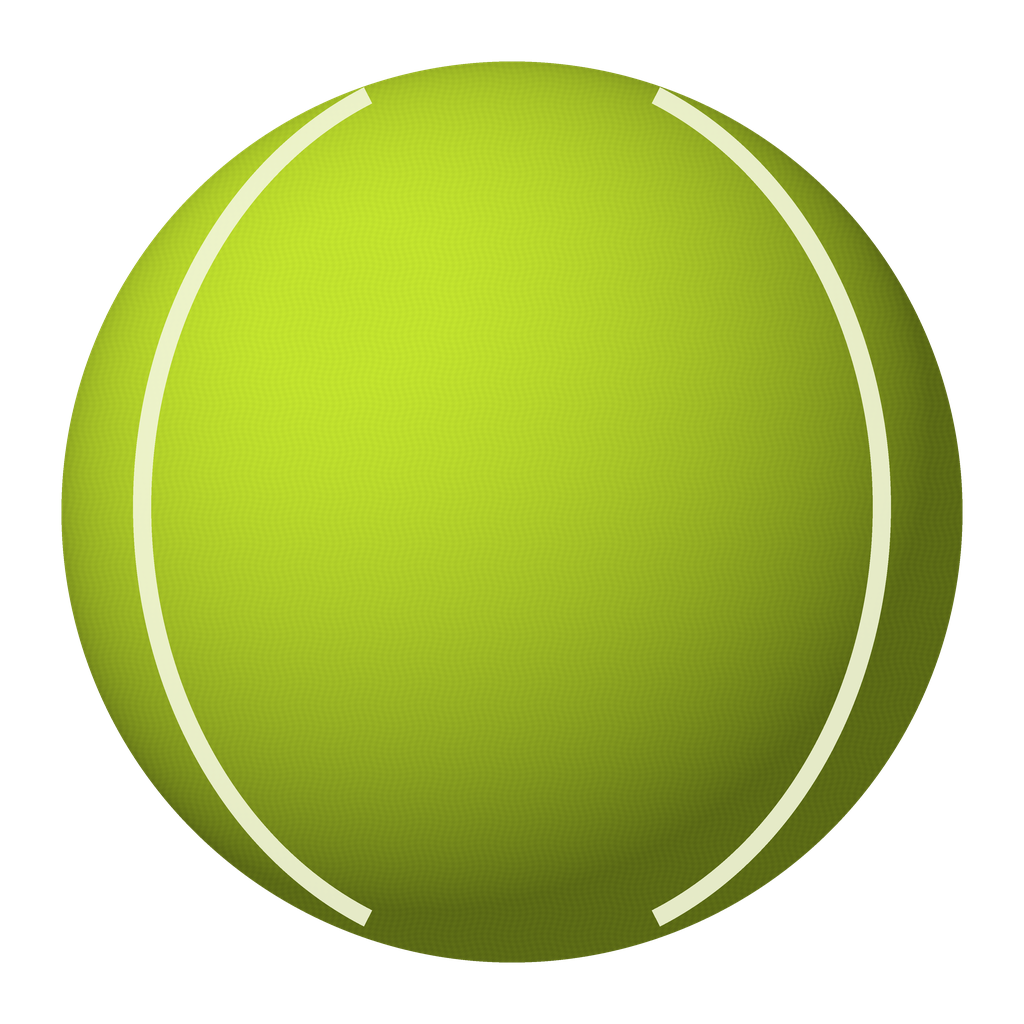
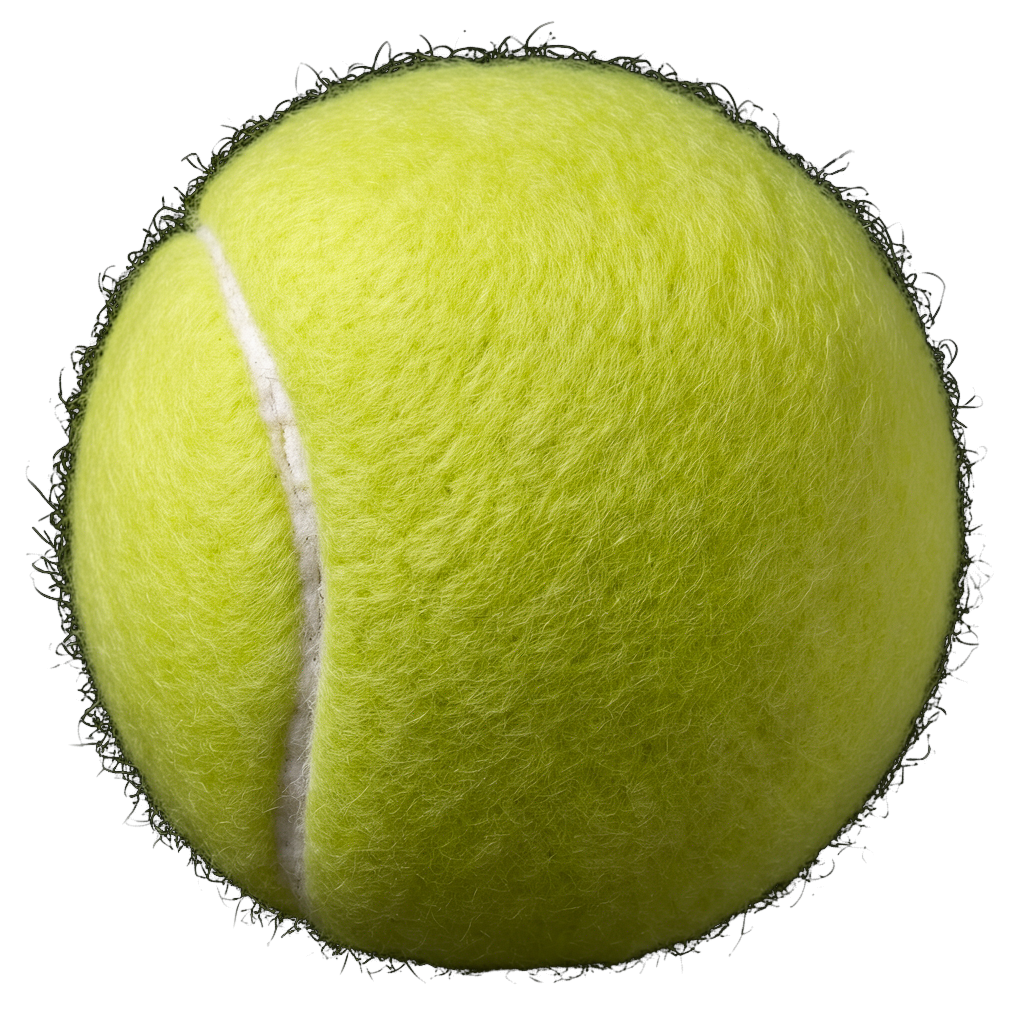
fix: replace synthetic tennis ball with photoreal felt source

diff --git a/scripts/generate_tennis_ball_assets.py b/scripts/generate_tennis_ball_assets.py
@@ -1,9 +1,10 @@
 #!/usr/bin/env python3
-"""Deterministically author native 8K tennis-ball PBR masters and web sprites.
+"""Author archived procedural PBR masters and approved photoreal web sprites.
 
-The master follows the Temple Guard exact-grid method: 16 independently
-rendered 2048 px tiles, stitched as a lossless, non-overlapping 4 x 4 atlas.
-No neural upscaling or resampling is used to create the 8192 px masters.
+The 8192 px PBR maps preserve the earlier exact-grid experiment, but they are
+not the visible identity source. Runtime sprites derive from the reviewed local
+FLUX.2 Klein plate in ``assets/tennis-ball/source``; no native-8K claim is made
+for that plate.
 """
 from __future__ import annotations
 
@@ -12,11 +13,12 @@ import json
 from pathlib import Path
 
 import numpy as np
-from PIL import Image, ImageDraw, ImageFilter
+from PIL import Image, ImageFilter
 
 ROOT = Path(__file__).resolve().parents[1]
 MASTER = ROOT / "artifacts" / "tennis-ball-8k"
 WEB = ROOT / "public" / "tennis-ball"
+PHOTO_SOURCE = ROOT / "assets" / "tennis-ball" / "source" / "photoreal-source-seed-4101.png"
 SIZE = 8192
 TILE = 2048
 SEED = 1987
@@ -86,45 +88,31 @@ def generate_masters() -> dict[str, dict[str, object]]:
 
 
 def render_sprite(size: int, glow: bool = False) -> Image.Image:
-    scale = 4
-    s = size * scale
-    yy, xx = np.mgrid[0:s, 0:s]
-    cx = cy = (s-1)/2
-    radius = s * .44
-    nx = (xx-cx)/radius
-    ny = (yy-cy)/radius
-    r2 = nx*nx + ny*ny
-    mask = r2 <= 1
-    nz = np.sqrt(np.clip(1-r2, 0, 1))
-    # Directional studio light plus authentic high-frequency felt.
-    light = np.clip(nx * -.38 + ny * -.48 + nz * .82, 0, 1)
-    fuzz = field(xx * (SIZE/s), yy * (SIZE/s))
-    tone = np.clip(.48 + light*.54 + fuzz*.038, .14, 1.08)
-    base = np.array([190, 222, 45], dtype=np.float32)
-    rgb = np.clip(base[None,None,:] * tone[...,None], 0, 255).astype(np.uint8)
-    rgba = np.zeros((s,s,4), dtype=np.uint8)
-    rgba[...,:3] = rgb
-    rgba[...,3] = np.where(mask, 255, 0).astype(np.uint8)
-    ball = Image.fromarray(rgba, "RGBA")
+    """Cut the approved photoreal plate from black and preserve its fuzzy edge."""
+    source = Image.open(PHOTO_SOURCE).convert("RGB")
+    rgb = np.asarray(source, dtype=np.float32)
+    height, width = rgb.shape[:2]
+    yy, xx = np.mgrid[0:height, 0:width]
+    cx, cy = (width - 1) / 2, (height - 1) / 2
+    radial = np.sqrt(((xx - cx) / width) ** 2 + ((yy - cy) / height) ** 2)
 
-    # Tennis seam: two mirrored smooth arcs, clipped by the ball silhouette.
-    seam = Image.new("RGBA", (s,s), (0,0,0,0))
-    d = ImageDraw.Draw(seam)
-    width = max(4, int(s*.018))
-    color = (241, 245, 214, 235)
-    bbox = (int(s*.13), int(s*.05), int(s*.87), int(s*.94))
-    d.arc(bbox, -67, 67, fill=color, width=width)
-    d.arc(bbox, 113, 247, fill=color, width=width)
-    seam.putalpha(Image.composite(seam.getchannel("A"), Image.new("L",(s,s),0), ball.getchannel("A")))
-    ball = Image.alpha_composite(ball, seam)
+    # The opaque core keeps naturally shadowed felt solid. Outside it, luminance
+    # isolates the back-lit loose fibers from the true black studio background.
+    luminance = rgb.max(axis=2)
+    fiber_alpha = np.clip((luminance - 2.0) / 24.0, 0, 1)
+    outer_fade = np.clip((0.49 - radial) / 0.025, 0, 1)
+    alpha = np.where(radial <= 0.425, 1.0, fiber_alpha * outer_fade)
+    alpha = Image.fromarray((alpha * 255).astype(np.uint8), "L").filter(ImageFilter.GaussianBlur(0.35))
 
+    ball = source.convert("RGBA")
+    ball.putalpha(alpha)
     if glow:
-        halo = Image.new("RGBA", (s,s), (0,0,0,0))
-        halo_alpha = ball.getchannel("A").filter(ImageFilter.GaussianBlur(s*.055)).point(lambda p: int(p*.18))
-        halo.paste((176,232,42,0), (0,0,s,s))
+        halo = Image.new("RGBA", source.size, (0, 0, 0, 0))
+        halo_alpha = alpha.filter(ImageFilter.GaussianBlur(width * .038)).point(lambda p: int(p * .16))
+        halo.paste((176, 232, 42, 0), (0, 0, width, height))
         halo.putalpha(halo_alpha)
         ball = Image.alpha_composite(halo, ball)
-    return ball.resize((size,size), Image.Resampling.LANCZOS)
+    return ball.resize((size, size), Image.Resampling.LANCZOS)
 
 
 def generate_web() -> dict[str, dict[str, object]]:
@@ -141,10 +129,17 @@ def generate_web() -> dict[str, dict[str, object]]:
 def main() -> None:
     MASTER.mkdir(parents=True, exist_ok=True)
     manifest = {
-        "method": "native deterministic 4x4 grid; 16 exact non-overlapping 2048px tiles; lossless PNG stitch",
+        "method": "archived deterministic 4x4 PBR experiment; not the visible identity source",
         "sourceSize": [SIZE, SIZE],
         "seed": SEED,
         "masters": generate_masters(),
+        "visibleSource": {
+            "path": str(PHOTO_SOURCE.relative_to(ROOT)),
+            "width": 1024,
+            "height": 1024,
+            "sha256": sha(PHOTO_SOURCE),
+            "type": "locally generated photoreal plate; not a photograph, scan, or native 8K source",
+        },
         "webDerivatives": generate_web(),
     }
     path = MASTER / "manifest.json"

diff --git a/scripts/generate_tennis_ball_plate_comfyui.py b/scripts/generate_tennis_ball_plate_comfyui.py
@@ -1,0 +1,86 @@
+#!/usr/bin/env python3
+"""Generate bounded photoreal tennis-ball plate hypotheses with local FLUX.2 Klein."""
+from __future__ import annotations
+
+import copy
+import io
+import json
+import time
+import uuid
+from pathlib import Path
+
+import requests
+from PIL import Image
+
+ROOT = Path(__file__).resolve().parents[1]
+HOST = "http://127.0.0.1:8188"
+WORKFLOW = Path("/mnt/zer0models/comfyui/user/default/workflows/wooloo-flux2-klein-edit-api.json")
+SOURCE = ROOT / "public/tennis-ball/tennis-ball-day-1024.webp"
+OUT = ROOT / "artifacts/tennis-ball-photoreal-candidates"
+SEEDS = (4101, 4102, 4103, 4104)
+
+PROMPT = """Photorealistic macro product photograph of one brand-new regulation tennis ball, centered and filling the square frame, seen straight-on at eye level. Exact round sphere. Dense chartreuse fluorescent yellow woven wool-nylon felt with individually visible short fuzzy fibers, irregular soft nap, realistic tactile microtexture, and a subtly hairy silhouette. Authentic recessed curved white rubber tennis-ball seam wrapping around the sphere in the recognizable two-lobed tennis seam geometry, narrow off-white channel with soft felt fibers touching its edges; not painted brackets. Natural spherical volume, soft studio key light from upper left, gentle occlusion and realistic rough non-plastic material response. Pure solid black background with no floor and no cast shadow. No logo, no text, no brand, no watermark. One object only, centered, complete ball not cropped."""
+NEGATIVE = """illustration, icon, vector, CGI, 3D render, smooth plastic, rubber toy, golf ball, cricket ball, flat circle, painted line, parallel bracket seams, glowing neon, overexposed, blurry, cropped, floor, hand, racket, text, logo, watermark, multiple balls, deformed sphere"""
+
+
+def upload_png(image: Image.Image) -> str:
+    data = io.BytesIO()
+    image.convert("RGB").save(data, "PNG")
+    data.seek(0)
+    response = requests.post(
+        HOST + "/upload/image",
+        files={"image": ("baseline-tennis-reference.png", data, "image/png")},
+        data={"type": "input", "overwrite": "true"},
+        timeout=60,
+    )
+    response.raise_for_status()
+    return response.json()["name"]
+
+
+def run(seed: int, source_name: str) -> Path:
+    workflow = copy.deepcopy(json.loads(WORKFLOW.read_text()))
+    workflow["1"]["inputs"]["image"] = source_name
+    workflow["2"]["inputs"]["megapixels"] = 1.0
+    workflow["7"]["inputs"]["text"] = PROMPT
+    workflow["8"]["inputs"]["text"] = NEGATIVE
+    workflow["12"]["inputs"]["cfg"] = 4.0
+    workflow["14"]["inputs"]["steps"] = 28
+    workflow["16"]["inputs"]["noise_seed"] = seed
+    workflow["19"]["inputs"]["filename_prefix"] = f"baseline-tennis/photoreal-seed-{seed}"
+
+    response = requests.post(HOST + "/prompt", json={"prompt": workflow, "client_id": str(uuid.uuid4())}, timeout=60)
+    response.raise_for_status()
+    record = response.json()
+    if "prompt_id" not in record:
+        raise RuntimeError(record)
+    prompt_id = record["prompt_id"]
+
+    while True:
+        history = requests.get(HOST + f"/history/{prompt_id}", timeout=60).json()
+        if prompt_id in history:
+            item = history[prompt_id]
+            if item.get("status", {}).get("status_str") == "error":
+                raise RuntimeError(item)
+            images = []
+            for node in item.get("outputs", {}).values():
+                images.extend(node.get("images", []))
+            if images:
+                payload = requests.get(HOST + "/view", params=images[-1], timeout=120).content
+                path = OUT / f"photoreal-seed-{seed}.png"
+                path.write_bytes(payload)
+                return path
+        time.sleep(1)
+
+
+def main() -> None:
+    OUT.mkdir(parents=True, exist_ok=True)
+    source_name = upload_png(Image.open(SOURCE))
+    for seed in SEEDS:
+        path = OUT / f"photoreal-seed-{seed}.png"
+        if not path.exists():
+            path = run(seed, source_name)
+        print(path, flush=True)
+
+
+if __name__ == "__main__":
+    main()

diff --git a/ASSETS.md b/ASSETS.md
@@ -2,31 +2,26 @@
 
 Baseline uses one reusable textured tennis-ball symbol in navigation, the hero, map legend, statistical reports, and action controls.
 
-## Canonical source
+## Canonical visible source
 
-The source material is generated at a true **8192 × 8192** resolution by `scripts/generate_tennis_ball_assets.py`.
+The shipped symbol is derived from `assets/tennis-ball/source/photoreal-source-seed-4101.png`, a **1024 × 1024 locally generated photoreal plate** made with FLUX.2 Klein. It was selected for visible felt fibers, fuzzy silhouette, recessed off-white seam, spherical lighting, and legibility at icon sizes.
 
-It follows the same exact-grid method used for the Temple Guard detail master:
+The plate is not represented as a photograph, scan, CC0 library asset, or native 8K capture. Its SHA-256 is:
 
-1. Render sixteen native 2048 × 2048 tiles in a strict 4 × 4 grid.
-2. Preserve every tile losslessly as PNG.
-3. Stitch tiles with exact non-overlapping boundaries.
-4. Produce independent albedo, normal, roughness, and emissive-mask masters.
-5. Record dimensions and SHA-256 receipts in `assets/tennis-ball-8k-manifest.json`.
-6. Derive lossless 1024, 512, and 256 WebP UI sprites from the high-resolution source.
-
-There is no neural upscaling, fake super-resolution, overlap, feathering, or collage reconstruction.
-
-## Repository boundary
-
-The reproducible lossless masters and 64 source tiles occupy approximately 487 MB and remain under ignored `artifacts/tennis-ball-8k/`. The deterministic generator, hash manifest, and optimized web derivatives are tracked. Run:
-
-```bash
-python scripts/generate_tennis_ball_assets.py
+```text
[1 lines of base64/hex data omitted]
 ```
+
+`scripts/generate_tennis_ball_assets.py` removes the black studio background while preserving loose edge fibers, then produces lossless 1024, 512, and 256 WebP derivatives. Browsers load those optimized derivatives.
+
+## Archived procedural experiment
+
+`artifacts/tennis-ball-8k/` contains the earlier deterministic 8192 × 8192 tiled PBR experiment. It failed the visual realism gate and is **not** the canonical visible identity source. The repository retains its generator and receipts only as reproducible process evidence; its 487 MB outputs remain ignored.
+
+No native, rights-safe 8K photographic tennis-ball material was found in Poly Haven, ambientCG, Blendkit, or OpenGameArt. Baseline therefore makes no claim that the shipped photoreal plate is a native 8K source.
 
 ## Runtime motion
 
-`src/TennisBallSymbol.tsx` provides five sizes and three motion modes. The hero ball uses a squash/stretch rebound with a synchronized contact shadow. Small instances use restrained hover lift. Dark surfaces add two low-opacity drop-shadow halos rather than shipping the emissive 8K map to browsers.
+`src/TennisBallSymbol.tsx` provides five sizes and three motion modes. The hero ball uses a squash/stretch rebound with a synchronized contact shadow. Small instances use restrained hover lift. Dark surfaces add low-opacity halos without erasing the felt texture.
 
 `prefers-reduced-motion: reduce` disables the rebound and shadow animation.
